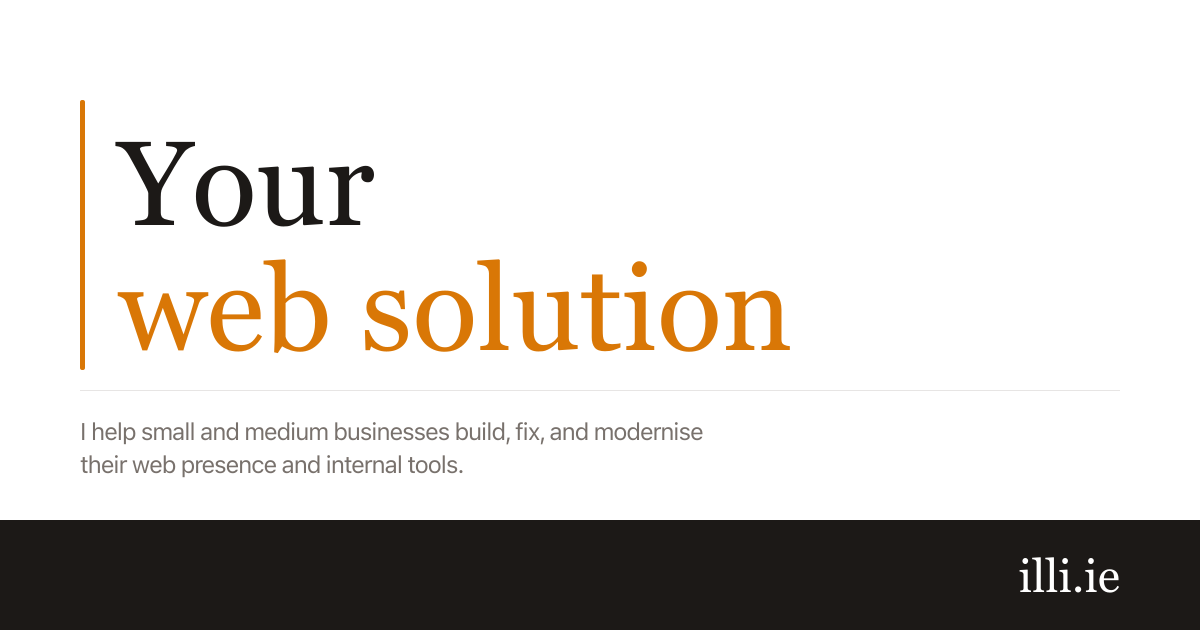
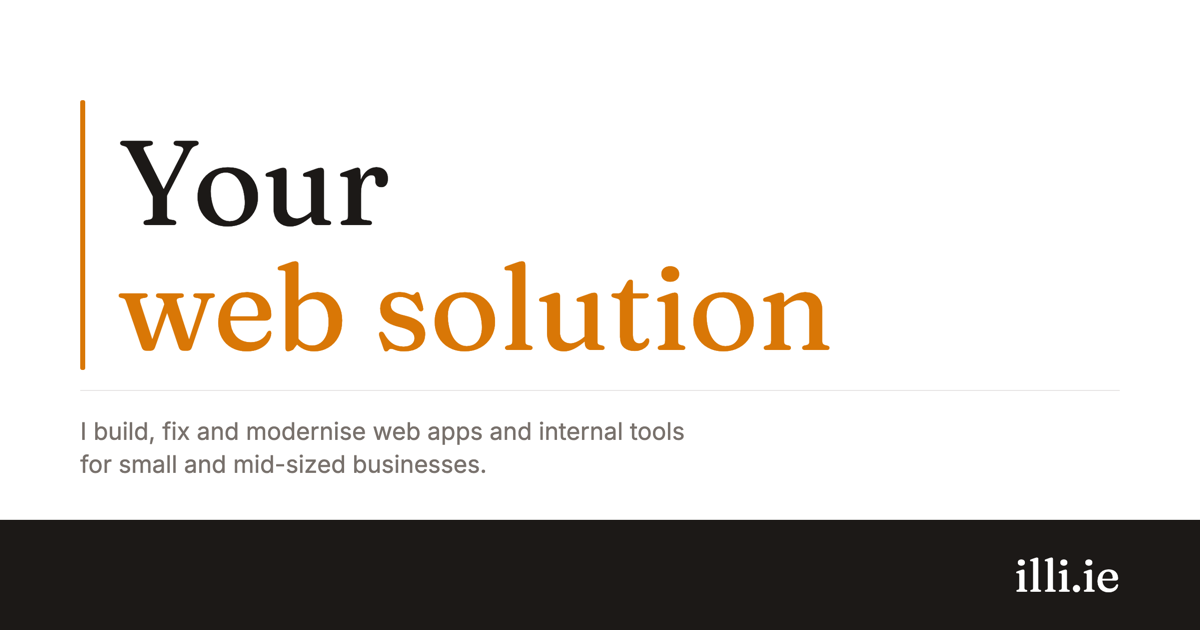
feat: rework page content around web apps and internal tools
- Hero: new positioning text and a "Need extra hands on your team?" link
  that jumps to the second Contact block
- Replace Services with "Sound familiar?", six expandable lines built on
  native details/summary (keyboard and touch friendly, no JS)
- Work: add CWSL Portal, rename the music platform to Nettwerk Central,
  reorder most recent first
- About: updated copy plus a new "How I work" part in the same section
- Contact: two ways in (book a call, email for contract work)
- Update title, meta description, social card text, og-image and JSON-LD

diff --git a/resources/css/app.css b/resources/css/app.css
@@ -7,3 +7,25 @@
         scroll-behavior: smooth;
     }
 }
+
+/* "Sound familiar?" disclosures: animate open/close where the browser can
+   interpolate to auto height; elsewhere they simply open instantly. */
+@media (prefers-reduced-motion: no-preference) {
+    @supports (interpolate-size: allow-keywords) {
+        .familiar {
+            interpolate-size: allow-keywords;
+        }
+
+        .familiar::details-content {
+            block-size: 0;
+            overflow: clip;
+            opacity: 0;
+            transition: block-size 0.3s ease, opacity 0.3s ease, content-visibility 0.3s allow-discrete;
+        }
+
+        .familiar[open]::details-content {
+            block-size: auto;
+            opacity: 1;
+        }
+    }
+}

diff --git a/resources/views/welcome.blade.php b/resources/views/welcome.blade.php
@@ -4,9 +4,9 @@
     @include('partials.gtag')
     <meta charset="utf-8">
     <meta name="viewport" content="width=device-width, initial-scale=1">
-    <title>illi — Freelance Web Developer, Ireland</title>
+    <title>illi: Freelance Web Developer, Ireland</title>
     <meta name="description"
-          content="I help small and medium businesses build, fix, and modernise their web presence and internal tools.">
+          content="I build, fix and modernise web apps and internal tools for small and mid-sized businesses. Based in Celbridge, Ireland.">
 
     <link rel="canonical" href="https://illi.ie">
 
@@ -14,14 +14,14 @@
     <meta property="og:url" content="https://illi.ie">
     <meta property="og:title" content="illi: Your Web Artisan">
     <meta property="og:description"
-          content="I help small and medium businesses build, fix, and modernise their web presence and internal tools. You deal with me directly, from first conversation to finished product.">
+          content="I build, fix and modernise web apps and internal tools for small and mid-sized businesses. You deal with me directly, from the first conversation to the finished product.">
     <meta property="og:image" content="https://illi.ie/og-image.png">
 
     {{-- Twitter/X card --}}
     <meta name="twitter:card" content="summary_large_image">
     <meta name="twitter:title" content="illi: Your Web Artisan">
     <meta name="twitter:description"
-          content="I help small and medium businesses build, fix, and modernise their web presence and internal tools. You deal with me directly, from first conversation to finished product.">
+          content="I build, fix and modernise web apps and internal tools for small and mid-sized businesses. You deal with me directly, from the first conversation to the finished product.">
     <meta name="twitter:image" content="https://illi.ie/og-image.png">
 
     <link rel="icon" href="/favicon.svg" type="image/svg+xml">
@@ -53,7 +53,7 @@
                 <span id="rotating-word" class="text-amber-600 transition-opacity duration-300">web artisan</span>
             </h1>
             <p class="mt-10 text-lg md:text-xl text-stone-600 leading-relaxed max-w-xl">
-                I help small and medium businesses build, fix, and modernise their web presence and internal tools. You deal with me directly, from first conversation to finished product.
+                I build, fix and modernise web apps and internal tools for small and mid-sized businesses. You deal with me directly, from the first conversation to the finished product.
             </p>
             <div class="mt-10 flex flex-col sm:flex-row gap-4">
                 <a href="#contact"
@@ -63,17 +63,154 @@
                    class="inline-block text-sm px-6 py-3 text-stone-600 hover:text-amber-600 transition-colors">See my
                     work →</a>
             </div>
+            <p class="mt-8 text-sm text-stone-500">
+                <a href="#extra-hands" class="hover:text-amber-600 transition-colors">Need extra hands on your team? →</a>
+            </p>
         </div>
     </section>
 
 </div>
 
-{{-- Case Studies --}}
-<section id="work" class="px-6 py-20 md:px-12 md:py-28 lg:px-16 bg-stone-50">
+{{-- Sound familiar? --}}
+<section id="sound-familiar" class="px-6 py-20 md:px-12 md:py-28 lg:px-16 bg-stone-50">
+    <div class="max-w-3xl mx-auto">
+        <h2 class="text-xs font-medium uppercase tracking-widest text-stone-400 mb-10">Sound familiar?</h2>
+
+        <div>
+
+            <details class="familiar group border-t border-stone-200" open>
+                <summary class="group/summary block cursor-pointer list-none py-6 md:py-7 focus:outline-none [&::-webkit-details-marker]:hidden">
+                    <h3 class="flex items-start justify-between gap-6 rounded-sm font-serif text-xl md:text-2xl leading-snug text-stone-900 group-focus-visible/summary:outline group-focus-visible/summary:outline-2 group-focus-visible/summary:outline-offset-8 group-focus-visible/summary:outline-amber-600">
+                        <span class="text-balance">&ldquo;We run the business on spreadsheets, WhatsApp and phone calls.&rdquo;</span>
+                        <svg class="mt-1.5 h-4 w-4 shrink-0 text-stone-400 transition duration-300 group-open:rotate-45 group-open:text-amber-600 group-hover/summary:text-amber-600 md:mt-2" viewBox="0 0 16 16" fill="none" stroke="currentColor" stroke-width="1.5" stroke-linecap="round" aria-hidden="true">
+                            <path d="M8 2v12M2 8h12"/>
+                        </svg>
+                    </h3>
+                </summary>
+                <p class="max-w-xl pb-8 pr-10 text-stone-600 leading-relaxed text-pretty">
+                    <span class="text-amber-600">Everything in one proper system</span> built around how you already work, so nothing depends on who saw which message or who has the latest file.
+                </p>
+            </details>
+
+            <details class="familiar group border-t border-stone-200">
+                <summary class="group/summary block cursor-pointer list-none py-6 md:py-7 focus:outline-none [&::-webkit-details-marker]:hidden">
+                    <h3 class="flex items-start justify-between gap-6 rounded-sm font-serif text-xl md:text-2xl leading-snug text-stone-900 group-focus-visible/summary:outline group-focus-visible/summary:outline-2 group-focus-visible/summary:outline-offset-8 group-focus-visible/summary:outline-amber-600">
+                        <span class="text-balance">&ldquo;Our clients keep ringing for information they should be able to look up themselves.&rdquo;</span>
+                        <svg class="mt-1.5 h-4 w-4 shrink-0 text-stone-400 transition duration-300 group-open:rotate-45 group-open:text-amber-600 group-hover/summary:text-amber-600 md:mt-2" viewBox="0 0 16 16" fill="none" stroke="currentColor" stroke-width="1.5" stroke-linecap="round" aria-hidden="true">
+                            <path d="M8 2v12M2 8h12"/>
+                        </svg>
+                    </h3>
+                </summary>
+                <p class="max-w-xl pb-8 pr-10 text-stone-600 leading-relaxed text-pretty">
+                    <span class="text-amber-600">A client portal.</span> Your clients log in and find what they need, and your phone rings less.
+                </p>
+            </details>
+
+            <details class="familiar group border-t border-stone-200">
+                <summary class="group/summary block cursor-pointer list-none py-6 md:py-7 focus:outline-none [&::-webkit-details-marker]:hidden">
+                    <h3 class="flex items-start justify-between gap-6 rounded-sm font-serif text-xl md:text-2xl leading-snug text-stone-900 group-focus-visible/summary:outline group-focus-visible/summary:outline-2 group-focus-visible/summary:outline-offset-8 group-focus-visible/summary:outline-amber-600">
+                        <span class="text-balance">&ldquo;Our system still works, but it&rsquo;s showing its age.&rdquo;</span>
+                        <svg class="mt-1.5 h-4 w-4 shrink-0 text-stone-400 transition duration-300 group-open:rotate-45 group-open:text-amber-600 group-hover/summary:text-amber-600 md:mt-2" viewBox="0 0 16 16" fill="none" stroke="currentColor" stroke-width="1.5" stroke-linecap="round" aria-hidden="true">
+                            <path d="M8 2v12M2 8h12"/>
+                        </svg>
+                    </h3>
+                </summary>
+                <p class="max-w-xl pb-8 pr-10 text-stone-600 leading-relaxed text-pretty">
+                    It gets <span class="text-amber-600">modernised piece by piece</span>, and your business keeps running while it happens.
+                </p>
+            </details>
+
+            <details class="familiar group border-t border-stone-200">
+                <summary class="group/summary block cursor-pointer list-none py-6 md:py-7 focus:outline-none [&::-webkit-details-marker]:hidden">
+                    <h3 class="flex items-start justify-between gap-6 rounded-sm font-serif text-xl md:text-2xl leading-snug text-stone-900 group-focus-visible/summary:outline group-focus-visible/summary:outline-2 group-focus-visible/summary:outline-offset-8 group-focus-visible/summary:outline-amber-600">
+                        <span class="text-balance">&ldquo;We already have software, it just needs someone to look after it.&rdquo;</span>
+                        <svg class="mt-1.5 h-4 w-4 shrink-0 text-stone-400 transition duration-300 group-open:rotate-45 group-open:text-amber-600 group-hover/summary:text-amber-600 md:mt-2" viewBox="0 0 16 16" fill="none" stroke="currentColor" stroke-width="1.5" stroke-linecap="round" aria-hidden="true">
+                            <path d="M8 2v12M2 8h12"/>
+                        </svg>
+                    </h3>
+                </summary>
+                <p class="max-w-xl pb-8 pr-10 text-stone-600 leading-relaxed text-pretty">
+                    <span class="text-amber-600">A fresh pair of hands</span> for what you have: what's broken gets fixed, what's missing gets built.
+                </p>
+            </details>
+
+            <details class="familiar group border-t border-stone-200">
+                <summary class="group/summary block cursor-pointer list-none py-6 md:py-7 focus:outline-none [&::-webkit-details-marker]:hidden">
+                    <h3 class="flex items-start justify-between gap-6 rounded-sm font-serif text-xl md:text-2xl leading-snug text-stone-900 group-focus-visible/summary:outline group-focus-visible/summary:outline-2 group-focus-visible/summary:outline-offset-8 group-focus-visible/summary:outline-amber-600">
+                        <span class="text-balance">&ldquo;We have an idea for a product and nobody to build it.&rdquo;</span>
+                        <svg class="mt-1.5 h-4 w-4 shrink-0 text-stone-400 transition duration-300 group-open:rotate-45 group-open:text-amber-600 group-hover/summary:text-amber-600 md:mt-2" viewBox="0 0 16 16" fill="none" stroke="currentColor" stroke-width="1.5" stroke-linecap="round" aria-hidden="true">
+                            <path d="M8 2v12M2 8h12"/>
+                        </svg>
+                    </h3>
+                </summary>
+                <p class="max-w-xl pb-8 pr-10 text-stone-600 leading-relaxed text-pretty">
+                    From a few notes to <span class="text-amber-600">a live product</span>, with someone who has done it before.
+                </p>
+            </details>
+
+            <details class="familiar group border-t border-stone-200">
+                <summary class="group/summary block cursor-pointer list-none py-6 md:py-7 focus:outline-none [&::-webkit-details-marker]:hidden">
+                    <h3 class="flex items-start justify-between gap-6 rounded-sm font-serif text-xl md:text-2xl leading-snug text-stone-900 group-focus-visible/summary:outline group-focus-visible/summary:outline-2 group-focus-visible/summary:outline-offset-8 group-focus-visible/summary:outline-amber-600">
+                        <span class="text-balance">&ldquo;Our website no longer reflects the business.&rdquo;</span>
+                        <svg class="mt-1.5 h-4 w-4 shrink-0 text-stone-400 transition duration-300 group-open:rotate-45 group-open:text-amber-600 group-hover/summary:text-amber-600 md:mt-2" viewBox="0 0 16 16" fill="none" stroke="currentColor" stroke-width="1.5" stroke-linecap="round" aria-hidden="true">
+                            <path d="M8 2v12M2 8h12"/>
+                        </svg>
+                    </h3>
+                </summary>
+                <p class="max-w-xl pb-8 pr-10 text-stone-600 leading-relaxed text-pretty">
+                    <span class="text-amber-600">A new site</span> that is fast, easy to update, and looks like the business you are today.
+                </p>
+            </details>
+
+        </div>
+
+        <p class="border-t border-stone-200 pt-10 text-stone-600 leading-relaxed">
+            If any of that sounds like your business, let's talk. Not on the list?
+            <a href="#contact" class="text-amber-600 hover:text-amber-700 transition-colors whitespace-nowrap">Just ask →</a>
+        </p>
+    </div>
+</section>
+
+{{-- Work --}}
+<section id="work" class="px-6 py-20 md:px-12 md:py-28 lg:px-16">
     <div class="max-w-3xl mx-auto">
         <h2 class="text-xs font-medium uppercase tracking-widest text-stone-400 mb-10">Work</h2>
 
         <div class="divide-y divide-stone-200">
+
+            <div class="py-10">
+                <p class="text-xs text-stone-400 mb-3">Flow survey and remote monitoring specialists</p>
+                <h3 class="font-serif text-2xl md:text-3xl text-stone-900 mb-5">CWSL Portal</h3>
+                <p class="text-stone-600 leading-relaxed">
+                    CWSL's site work was spread across multiple spreadsheets, AppSheet automations and a separate
+                    form-filling app. With that much data it had become hard to navigate and harder to maintain. CWSL
+                    Portal brings it all into one app with simpler flows. Crews fill in site forms on their phones and
+                    can keep working without signal, syncing once they are back online. The office follows each site's
+                    progress on a map, and the data lives in a proper database. The requirements were worked out side
+                    by side with the CWSL team, and the portal is now in daily use.
+                </p>
+            </div>
+
+            <div class="py-10">
+                <p class="text-xs text-stone-400 mb-3">Internal platform for Nettwerk Music Group</p>
+                <h3 class="font-serif text-2xl md:text-3xl text-stone-900 mb-5">Nettwerk Central</h3>
+                <p class="text-stone-600 leading-relaxed">
+                    Nettwerk needed a custom internal platform to manage artists, contracts and release workflows
+                    across their catalogue. I was part of the core team that built and refined it for nearly three
+                    years, including the pipeline that takes a release from scheduling through to distribution. It is
+                    used daily across their operation.
+                </p>
+            </div>
+
+            <div class="py-10">
+                <p class="text-xs text-stone-400 mb-3">Irish health insurance provider</p>
+                <h3 class="font-serif text-2xl md:text-3xl text-stone-900 mb-5">Laya Healthcare</h3>
+                <p class="text-stone-600 leading-relaxed">
+                    Laya was running critical patient-facing tools on outdated technology. I led the rebuild of their
+                    login system and cover-checker app into modern, fast, maintainable applications, without
+                    disrupting live services in the process.
+                </p>
+            </div>
 
             <div class="py-10">
                 <p class="text-xs text-stone-400 mb-3">Workspace booking platform</p>
@@ -86,79 +223,11 @@
                 </p>
             </div>
 
-            <div class="py-10">
-                <p class="text-xs text-stone-400 mb-3">Healthcare app modernisation</p>
-                <h3 class="font-serif text-2xl md:text-3xl text-stone-900 mb-5">Laya Healthcare</h3>
-                <p class="text-stone-600 leading-relaxed">
-                    A major Irish health insurer was running critical patient-facing tools on outdated technology. I led
-                    the rebuild of their login system and patient cover-checker app into modern, fast, maintainable
-                    applications, without disrupting live services in the process.
-                </p>
-            </div>
-
-            <div class="py-10">
-                <p class="text-xs text-stone-400 mb-3">Internal platform for a music group</p>
-                <h3 class="font-serif text-2xl md:text-3xl text-stone-900 mb-5">Music catalogue platform</h3>
-                <p class="text-stone-600 leading-relaxed">
-                    A large music company needed a custom internal platform to manage artists, contracts, and release
-                    workflows across their catalogue. I was part of the core team that spent nearly three years building
-                    and refining this, a complex, high-stakes product used daily by their entire operation.
-                </p>
-            </div>
-
         </div>
     </div>
 </section>
 
-{{-- Services --}}
-<section id="services" class="px-6 py-20 md:px-12 md:py-28 lg:px-16">
-    <div class="max-w-3xl mx-auto">
-        <h2 class="text-xs font-medium uppercase tracking-widest text-stone-400 mb-10">Services</h2>
-
-        <p class="text-stone-600 leading-relaxed mb-10">
-            Whether you're starting from scratch or trying to fix what you already have, here's where I can help:
-        </p>
-
-        <div>
-
-            <div class="border-t border-stone-200 py-10">
-                <h3 class="font-medium text-stone-900 mb-3">New websites and web apps</h3>
-                <p class="text-stone-500 leading-relaxed text-sm">Got an idea or a business that needs a proper online
-                    presence? I'll build something <span class="text-amber-600">clean, fast, and easy to manage</span>.
-                </p>
-            </div>
-
-            <div class="border-t border-stone-200 py-10">
-                <h3 class="font-medium text-stone-900 mb-3">Modernising old systems</h3>
-                <p class="text-stone-500 leading-relaxed text-sm">Running on something outdated, slow, or held together
-                    with duct tape? I can assess what you have and <span
-                        class="text-amber-600">bring it up to speed</span>.</p>
-            </div>
-
-            <div class="border-t border-stone-200 py-10">
-                <h3 class="font-medium text-stone-900 mb-3">Internal tools and portals</h3>
-                <p class="text-stone-500 leading-relaxed text-sm">Need something just for your team? Booking systems,
-                    admin panels, customer portals: tools that <span class="text-amber-600">make your operation run smoother</span>.
-                </p>
-            </div>
-
-            <div class="border-t border-stone-200 py-10">
-                <h3 class="font-medium text-stone-900 mb-3">Ongoing support and development</h3>
-                <p class="text-stone-500 leading-relaxed text-sm">Some clients need a one-off project. Others want
-                    someone they can call when something breaks or when the next idea hits. <span
-                        class="text-amber-600">I'm open to both.</span></p>
-            </div>
-
-        </div>
-
-        <p class="border-t border-stone-200 pt-10 text-stone-500 text-sm leading-relaxed">
-            I work with businesses in hospitality, trades, property, e-commerce, healthcare, and beyond. If you're not
-            sure whether what you need falls into any of these, just ask.
-        </p>
-    </div>
-</section>
-
-{{-- About --}}
+{{-- About and How I work --}}
 <section id="about" class="px-6 py-20 md:px-12 md:py-28 lg:px-16 bg-stone-50">
     <div class="max-w-3xl mx-auto">
         <div class="overflow-hidden">
@@ -169,9 +238,10 @@
             <div class="space-y-5 text-stone-600 leading-relaxed">
                 <p>
                     I'm David, the person behind <span class="font-serif">illi</span>. I've spent <span
-                        class="text-amber-600 whitespace-nowrap">8 years</span> building web products for companies
-                    ranging from Irish healthcare providers to international music groups, always as someone who gets
-                    their hands dirty, not just someone who writes a spec and disappears.
+                        class="text-amber-600 whitespace-nowrap">over 9 years</span> building web products, from
+                    startups getting their first version live to established companies modernising what they already
+                    run, always as someone who gets their hands dirty, not just someone who writes a spec and
+                    disappears.
                 </p>
                 <p>
                     I'm based in Celbridge, Ireland, and I work with clients remotely and in person. I'm straightforward
@@ -181,6 +251,21 @@
                 <p>Also, I like <span class="text-amber-600">mango</span>.</p>
             </div>
         </div>
+
+        <div id="how-i-work" class="mt-16 border-t border-stone-200 pt-16 md:mt-20 md:pt-20">
+            <h2 class="text-xs font-medium uppercase tracking-widest text-stone-400 mb-10">How I work</h2>
+
+            <div class="space-y-5 text-stone-600 leading-relaxed">
+                <p>
+                    Most projects I deliver on my own, start to finish. I talk to the people who will use it, work out
+                    what is really needed, then design it and build it. You don't pay for a team you don't need.
+                </p>
+                <p>
+                    When a project calls for more, whether that's a designer, another developer or a marketing
+                    specialist, I bring in people I've worked with and trust. <span class="text-amber-600">You still deal with me.</span>
+                </p>
+            </div>
+        </div>
     </div>
 </section>
 
@@ -188,12 +273,36 @@
 <section id="contact" class="bg-stone-900 px-6 py-20 md:px-12 md:py-28 lg:px-16">
     <div class="max-w-3xl mx-auto">
         <h2 class="text-xs font-medium uppercase tracking-widest text-stone-500 mb-10">Contact</h2>
-        <p class="font-serif text-3xl md:text-4xl text-white mb-4 leading-snug">Let's talk about<br>what you need.</p>
-        <p class="text-stone-400 mb-8">Have a project in mind? <a href="https://calendar.app.google/sXgCAHtJmi3ZnTY17"
-                                                                  target="_blank" rel="noopener noreferrer"
-                                                                  class="text-amber-600 hover:text-amber-500 transition-colors">Book
-                a call →</a></p>
-        <div class="text-stone-400 space-y-1">
+        <p class="font-serif text-3xl md:text-4xl text-white mb-12 leading-snug">Let's talk about<br>what you need.</p>
+
+        <div class="grid gap-10 md:grid-cols-2 md:gap-12">
+
+            <div id="project" class="flex flex-col border-t border-stone-700 pt-6 scroll-mt-8 transition-colors target:border-amber-600">
+                <h3 class="font-medium text-white mb-3">Have a project in mind?</h3>
+                <p class="text-sm text-stone-400 leading-relaxed mb-6">
+                    Tell me what's not working, even if all you have is a few notes. No pitch, just a conversation.
+                </p>
+                <p class="mt-auto">
+                    <a href="https://calendar.app.google/sXgCAHtJmi3ZnTY17" target="_blank" rel="noopener noreferrer"
+                       class="text-amber-600 hover:text-amber-500 transition-colors">Book a call →</a>
+                </p>
+            </div>
+
+            <div id="extra-hands" class="flex flex-col border-t border-stone-700 pt-6 scroll-mt-8 transition-colors target:border-amber-600">
+                <h3 class="font-medium text-white mb-3">Need extra hands on your team?</h3>
+                <p class="text-sm text-stone-400 leading-relaxed mb-6">
+                    I also work as a contract developer alongside in-house teams and agencies, mostly in Laravel and
+                    React. If you need an experienced developer who can get up to speed quickly, get in touch.
+                </p>
+                <p class="mt-auto">
+                    <a href="mailto:david@illi.ie"
+                       class="text-amber-600 hover:text-amber-500 transition-colors">Email me →</a>
+                </p>
+            </div>
+
+        </div>
+
+        <div class="mt-14 text-stone-400 space-y-1">
             <p class="font-medium text-white">David Illichmann</p>
             <p><a href="mailto:david@illi.ie" class="hover:text-white transition-colors">david@illi.ie</a></p>
         </div>

diff --git a/resources/views/partials/jsonld.blade.php b/resources/views/partials/jsonld.blade.php
@@ -5,7 +5,7 @@
     "name": "illi",
     "url": "https://illi.ie",
     "email": "david@illi.ie",
-    "description": "I help small and medium businesses build, fix, and modernise their web presence and internal tools.",
+    "description": "I build, fix and modernise web apps and internal tools for small and mid-sized businesses. Based in Celbridge, Ireland.",
     "founder": {
         "@type": "Person",
         "name": "David Illichmann",
@@ -20,6 +20,6 @@
         "addressLocality": "Celbridge",
         "addressCountry": "IE"
     },
-    "serviceType": ["Web Development", "Web Application Development", "Legacy System Modernisation"]
+    "serviceType": ["Web Application Development", "Internal Tools and Portals", "Legacy System Modernisation", "Web Development", "Contract Software Development"]
 }
 </script>
